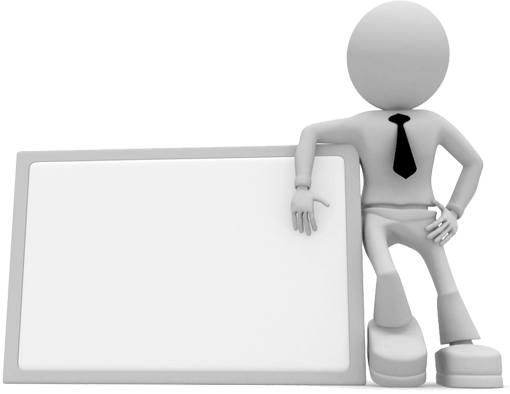
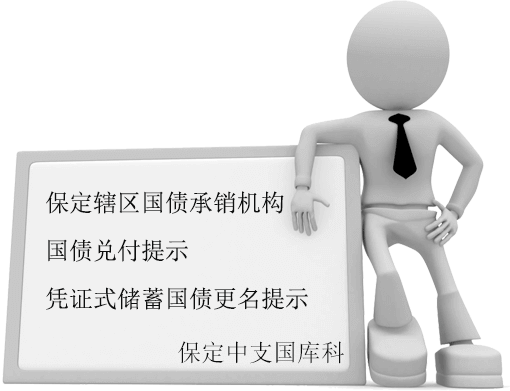
first

diff --git a/css/style.css b/css/style.css
@@ -52,14 +52,21 @@ div{ transition:all 0.8s linear 0.5s; -webkit-transition:all 0.8s linear 0.5s;}
 /*begin*/
 .fp-tableCell{ position:relative;}
 .sec{ position:absolute; left:0px; top:0px; width:100%; height:100%;}
-.posDiv{ position:absolute; left:0px;}
-.btnBox{ position:absolute; z-index:10; top:92%; left:45.34%; width:9.33%; opacity:0; animation:imgBtnFn 1s linear infinite;}
+.posDiv{ position:absolute; }
+.btnBox{ position:absolute; z-index:10; top:92%; left:45.34%; width:9.33% !important; opacity:0; animation:imgBtnFn 1s linear infinite;}
 /*第1屏*/
-.sec1{ background:url(../images/page01_bg.jpg) no-repeat; background-size:cover;}
+.sec1{ background:url(../img/bg.jpg) no-repeat; background-size:cover;}
+.sec1>div{
+	text-align: center;
+	width: 100%;
+}
 .sec1 .logo{ top:14.35%; opacity:0; transform:translate(0px,0px); transition:0.5s linear 0s;}
-.sec1 .theme{ top:23.57%; opacity:0; transform:scale(0.8); transition:0.5s linear 0.4s;}
+.sec1 .theme{ top:23.57%; opacity:0; transform:scale(0.8); transition:0.5s linear 0.4s;width: 100%;text-align: center;}
 .sec1 .wri01{ top:42.65%; opacity:0; transition:0.5s linear 0.8s;}
 .sec1 .wri02{ top:64.73%; opacity:0; transition:0.5s linear 1.2s;}
+.sec1 .wri02>p{
+	font-size: 1.2rem;
+}
 .sec1 .wri03{ top:69.71%; opacity:0; transition:0.5s linear 1.6s;}
 .sec1 .wri04{ top:84.81%; opacity:0; transition:0.5s linear 2s;}
 .sec1.active .logo{ opacity:1; transform:translate(0px,0px);}
@@ -91,21 +98,48 @@ div{ transition:all 0.8s linear 0.5s; -webkit-transition:all 0.8s linear 0.5s;}
 .sec2.active .wri{ transform:translate(0px,0px); opacity:1;}
 
 /*第3屏*/
-.sec3{ background:url(../images/page02_bg.jpg) no-repeat; background-size:cover;}
+.sec3{ background:url(../img/bg.jpg) no-repeat; background-size:cover;}
 .sec3 .line{ z-index:2; top:0px; left:0px; width:100%; height:100%;}
 .sec3 .tit{ z-index:3; top:0; opacity:0; transition:0.5s linear 0s;}
-.sec3 .r01{ z-index:1; top:0; opacity:0; transition:0.5s linear 0.3s;}
-.sec3 .r02{ z-index:1; bottom:0; opacity:0; transition:0.5s linear 0.3s;}
-.sec3 .wri{ z-index:3; width:100%; opacity:0; transition:0.5s linear 0.5s;}
-.sec3 .wri01{ top:0px; transform:translate(-80px,0px); transition-delay:0.5s;}
+.sec3 .r01{ z-index:1; left:0;bottom: 0; opacity:0; transition:0.5s linear 0.3s;}
+.sec3 .r01>img{
+	width: 150px;
+}
+.sec3 .r02>img{
+	width: 150px;
+}
+.sec3 .wri01>img,.sec3 .wri04>img{
+	width: 200px;
+}
+.sec3 .r02{ z-index:1; right:0;bottom:0; opacity:0; transition:0.5s linear 0.3s;}
+.sec3 .wri{ z-index:3; opacity:0; transition:0.5s linear 0.5s;}
+.sec3 .wri01{ top:20%;left: 10px; transform:translate(-80px,0px); transition-delay:0.5s;}
+.sec3 .wri01>p{
+	position: absolute;
+	top: 40px;
+	width: 128px;
+	left: 49px;
+	color: #fff;
+}
 .sec3 .wri02{ top:0px; transform:translate(-80px,0px); transition-delay:0.7s;}
 .sec3 .wri03{ top:0px; transform:translate(-80px,0px); transition-delay:0.9s;}
-.sec3 .wri04{ bottom:0px; transform:translate(80px,0px); transition-delay:0.5s;}
+.sec3 .wri04{ top:20%;right: 10px; transform:translate(80px,0px); transition-delay:0.5s;}
+.sec3 .wri04>p{
+	position: absolute;
+	top: 68px;
+	width: 128px;
+	left: 49px;
+}
 .sec3 .wri05{ bottom:0px; transform:translate(80px,0px); transition-delay:0.7s;}
 .sec3 .wri06{ bottom:0px; transform:translate(80px,0px); transition-delay:0.9s;}
 .sec3.active .tit,.sec3.active .r01,.sec3.active .r02{ opacity:1;}
 .sec3.active .wri{ transform:translate(0px,0px); opacity:1;}
-
+.pg5>div.wri01>img,.pg5>div.wri04>img{
+	width: 220px;
+}
+.pg5>div.wri01>p{
+	color: black;
+}
 /*第4屏*/
 .sec4{ background:url(../images/page02_bg.jpg) no-repeat; background-size:cover;}
 .sec4 .line{ z-index:2; top:0px; left:0px; width:100%; height:100%;}

diff --git a/action.php b/action.php
@@ -2,7 +2,8 @@
 <html>
 <head>
 	<meta charset="UTF-8">
-    <meta name="viewport" content="width=750, target-densitydpi=device-dpi, user-scalable=no">
+<!--    <meta name="viewport" content="width=750, target-densitydpi=device-dpi, user-scalable=no">-->
+    <meta name="viewport" content="width=device-width, initial-scale=1.0, maximum-scale=1.0, user-scalable=0">
 	<meta content="telephone=no" name="format-detection"/>
 	<meta name="description" content=""/>
 	<meta name="keywords" content=""/>
@@ -71,7 +72,7 @@
     <script src="js/voice.js.下载"></script>
 	
 <body>
-	<div class="page_guide">
+	<!--<div class="page_guide">
         <div class="page_load">
             <div class="page_load_info">
                 <img src="images/page_load_info.png" width="100%">
@@ -115,37 +116,73 @@
             
             </script>
         </div>
-    </div>
+    </div>-->
     <div id="dowebok">
         <div class="section">
         	<div class="sec sec1">
-                <div class="posDiv logo"><img src="images/logo.png" width="100%"></div>
-                <div class="posDiv theme"><img src="images/page01_theme.png" width="100%"></div>
-                <div class="posDiv wri01"><img src="images/page01_wri01.png" width="100%"></div>
-                <div class="posDiv wri02"><img src="images/page01_wri02.png" width="100%"></div>
+<!--                <div class="posDiv logo"><img src="images/logo.png" width="100%"></div>-->
+                <div class="posDiv theme"><img src="img/font.png" width="80%"></div>
+                <div class="posDiv wri01"><img src="img/man.png" width="90%" alt="man"></div>
+                <!--<div class="posDiv wri02">
+                    <p>保定辖区国债承销机构</p>
+                    <p>国债兑付提示</p>
+                    <p>凭证式储蓄国债更名提示</p>
+                </div>
                 <div class="posDiv wri03"><img src="images/page01_wri03.png" width="100%"></div>
-                <div class="posDiv wri04"><img src="images/page01_wri04.png" width="100%"></div>
+                <div class="posDiv wri04"><img src="images/page01_wri04.png" width="100%"></div>-->
+                <div class="btnBox"><img src="images/page_btn.png" width="100%"></div>
+            </div>
+        </div>
+        <!--<div class="section">
+            <div class="sec sec2">
+                <div class="posDiv line"><img src="images/page02_line.png" width="100%"></div>
+                <div class="posDiv tit"><img src="images/page02_tit.png" width="100%"></div>
+                <div class="posDiv r01"><img src="images/page02_r01.png" width="100%"></div>
+                <div class="posDiv wri wri01"><img src="images/page02_wri01.png" width="100%"></div>
+                <div class="posDiv wri wri02"><img src="images/page02_wri02.png" width="100%"></div>
+                <div class="posDiv wri wri03"><img src="images/page02_wri03.png" width="100%"></div>
+                <div class="posDiv wri wri04"><img src="images/page02_wri04.png" width="100%"></div>
+                <div class="posDiv r02"><img src="images/page02_r02.png" width="100%"></div>
+                <div class="posDiv wri wri05"><img src="images/page02_wri05.png" width="100%"></div>
+                <div class="posDiv wri wri06"><img src="images/page02_wri06.png" width="100%"></div>
+                <div class="posDiv wri wri07"><img src="images/page02_wri07.png" width="100%"></div>
+                <div class="posDiv r03"><img src="images/page02_r03.png" width="100%"></div>
+                <div class="posDiv wri wri08"><img src="images/page02_wri08.png" width="100%"></div>
+                <div class="posDiv wri wri09"><img src="images/page02_wri09.png" width="100%"></div>
+                <div class="posDiv wri wri10"><img src="images/page02_wri10.png" width="100%"></div>
+                <div class="btnBox"><img src="images/page_btn02.png" width="100%"></div>
+            </div>
+        </div>-->
+        <div class="section">
+            <div class="sec sec3">
+                <div class="posDiv r01"><img src="img/woman2.png" width="100%"></div>
+                <div class="posDiv wri wri01">
+                    <img src="img/message1.png" width="100%">
+                    <p>想买点国债，去哪能购买呢</p>
+                </div>
+                <div class="posDiv r02"><img src="img/man2.png" width="100%"></div>
+                <div class="posDiv wri wri04">
+                    <img src="img/message2.png" width="100%">
+                    <p>这事难不住我</p>
+                </div>
                 <div class="btnBox"><img src="images/page_btn.png" width="100%"></div>
             </div>
         </div>
         <div class="section">
-        	<div class="sec sec2">
-            	<div class="posDiv line"><img src="images/page02_line.png" width="100%"></div>
-				<div class="posDiv tit"><img src="images/page02_tit.png" width="100%"></div>
-				<div class="posDiv r01"><img src="images/page02_r01.png" width="100%"></div>
-				<div class="posDiv wri wri01"><img src="images/page02_wri01.png" width="100%"></div>
-				<div class="posDiv wri wri02"><img src="images/page02_wri02.png" width="100%"></div>
-				<div class="posDiv wri wri03"><img src="images/page02_wri03.png" width="100%"></div>
-				<div class="posDiv wri wri04"><img src="images/page02_wri04.png" width="100%"></div>
-				<div class="posDiv r02"><img src="images/page02_r02.png" width="100%"></div>
-				<div class="posDiv wri wri05"><img src="images/page02_wri05.png" width="100%"></div>
-				<div class="posDiv wri wri06"><img src="images/page02_wri06.png" width="100%"></div>
-				<div class="posDiv wri wri07"><img src="images/page02_wri07.png" width="100%"></div>
-				<div class="posDiv r03"><img src="images/page02_r03.png" width="100%"></div>
-				<div class="posDiv wri wri08"><img src="images/page02_wri08.png" width="100%"></div>
-				<div class="posDiv wri wri09"><img src="images/page02_wri09.png" width="100%"></div>
-				<div class="posDiv wri wri10"><img src="images/page02_wri10.png" width="100%"></div>
-                <div class="btnBox"><img src="images/page_btn02.png" width="100%"></div>
+            <div class="sec sec3 pg5">
+                <div class="posDiv r01"><img src="img/man1.png" width="100%"></div>
+                <div class="posDiv wri wri01">
+                    <img src="img/message5.png" width="100%">
+                    <p>人民银行和财政部每年都会进行提示，我这有最新2017到期国债表
+                    </p>
+                </div>
+                <div class="posDiv r02"><img src="img/woman1.png" width="100%"></div>
+                <div class="posDiv wri wri04">
+                    <img src="img/message6.png" width="100%">
+                    <p>买了国债，什么时候能兑付啊
+                    </p>
+                </div>
+                <div class="btnBox"><img src="images/page_btn.png" width="100%"></div>
             </div>
         </div>
         <div class="section">

diff --git a/index.php b/index.php
@@ -67,7 +67,7 @@ class wechat {
 	}
 	  
 }
-  
+
 if($_GET['code'] && empty($_COOKIE['wxd_openid']))
 {  
 	$access_token=$wechatObj->get_access_token(); 
